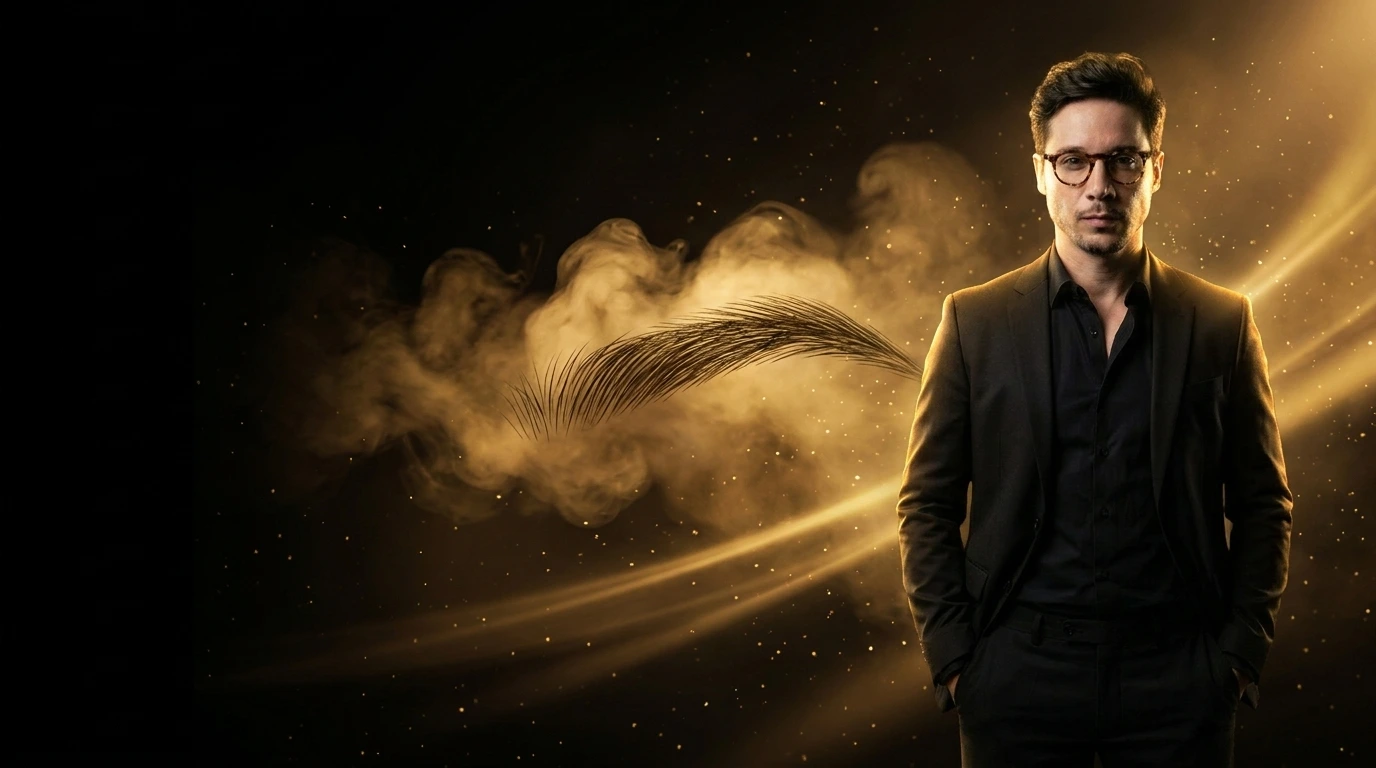
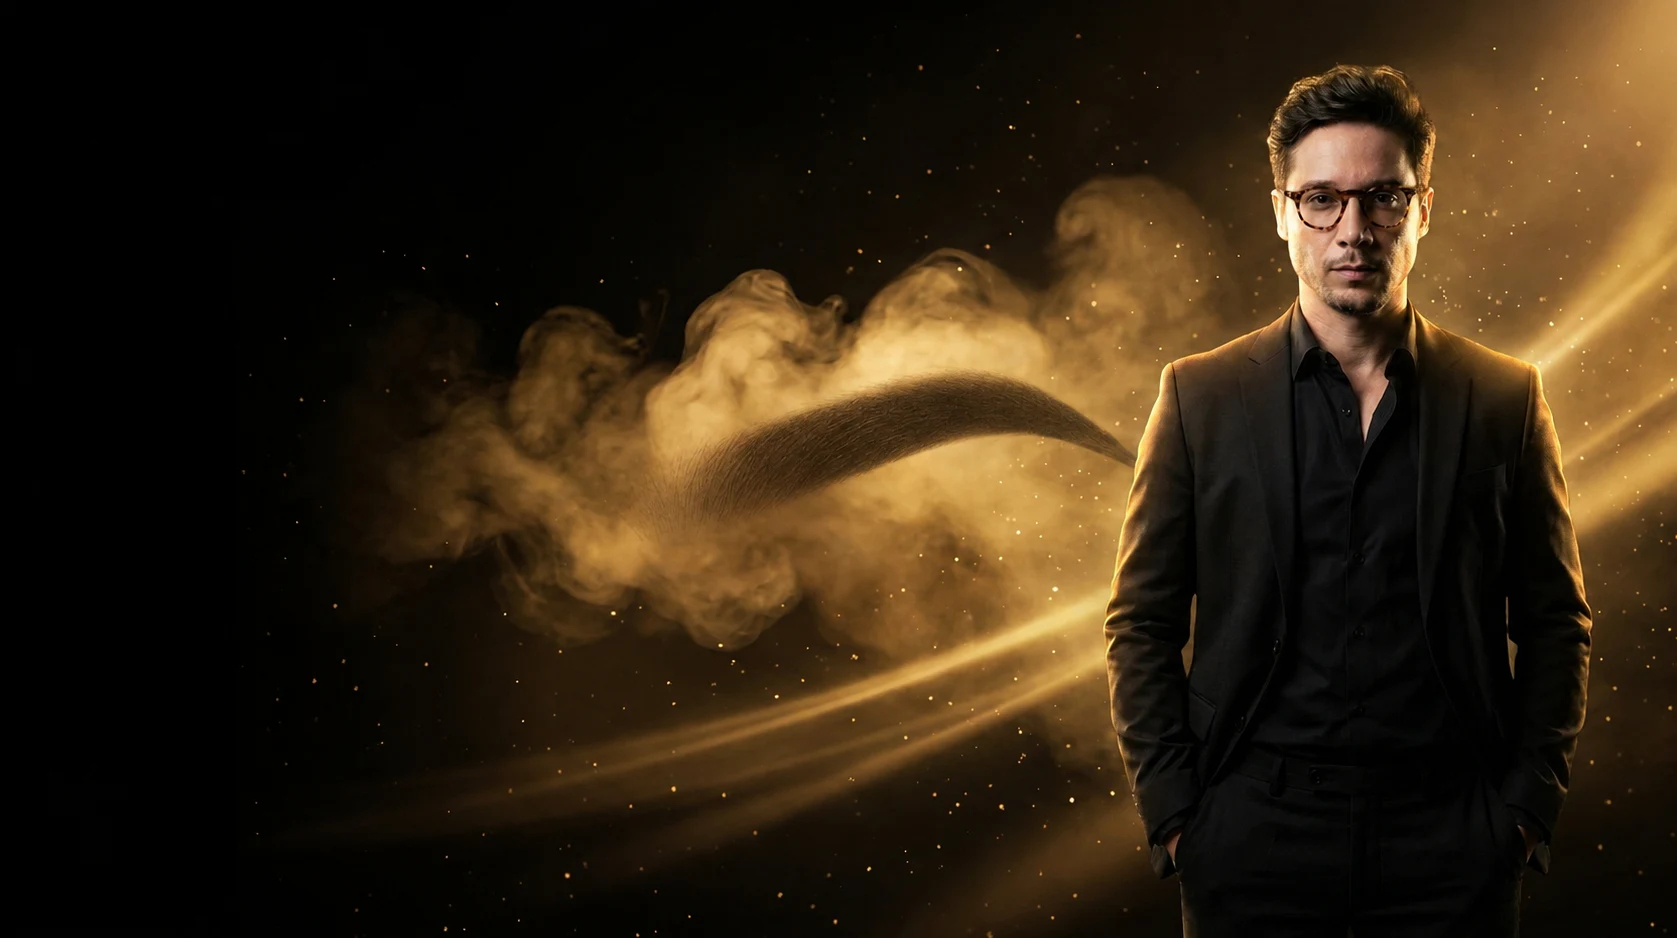
feat(shadow-pro): novo hero com arte dedicada para mobile
- hero-scene.webp trocado pela arte nova (1677x938, 78 KB)
- hero-scene-mobile.webp (1100x835, 64 KB) com recorte que preserva James e a
  sobrancelha no banner estreito; entra via media query abaixo de 600px

diff --git a/lp-html/metodo-shadow-pro.html b/lp-html/metodo-shadow-pro.html
@@ -500,6 +500,9 @@ h1,h2,h3{font-family:'Cormorant Garamond',Georgia,serif;font-weight:700;line-hei
   .ba{grid-template-columns:repeat(2,1fr);gap:10px;}
   .pillar{flex-direction:row;}
 }
+@media(max-width:600px){
+  .hero::after{background-image:url("/lp/shadow-pro/hero-scene-mobile.webp");background-position:center top;}
+}
 </style>
 </head>
 <body>

diff --git a/notas/progresso-atual.md b/notas/progresso-atual.md
@@ -2,7 +2,17 @@
 
 > **Estado vivo do portal.** Atualizar ao fim de CADA sessão. Substitui handoffs.
 >
-> **Última atualização**: 2026-07-30 — **“James Olaya” destacado no topo da seção do professor da `/metodo-shadow-pro`** + **espaçamento uniforme nos 7 pontos da ficha técnica da `/metodo-shadow-pro`** + **vídeo da ficha técnica comprimido (21 MB → 1,8 MB) + `.claude/`/`tmp/` no gitignore** + **quebra de linha no título do hero da `/metodo-shadow-pro`** + **cards e fotos da seção “Cicatrizados reais” da `/metodo-shadow-pro`** + **nova diagramação e CTA animado na oferta da `/metodo-shadow-pro`** + **carrossel da `/metodo-shadow-pro` reconstruído só com `OK_RESULTADOS`** + **certificado correto do Shadow PRO na `/metodo-shadow-pro`** + **vídeo em autoplay na ficha técnica da `/metodo-shadow-pro`** + **novas fotos nos 4 pilares da `/metodo-shadow-pro`** + **slug `/metodo-shadow-pro` + GTM-NGVQTHXT + `_fbp`/`_fbc` no CAPI** + **UX mobile da `/metodo-shadow-pro-2` (hero maior, fotos quadradas, prova subiu pro topo)** + mais prova visual na `/metodo-shadow-pro-2` (antes-e-depois + carrossel dobrado) + copy da `/basic-magic-shadow` (CTAs imperativos + fim da escassez) + GTM por página (mapa slug → container) + política de tracking por página + auditoria dos links de checkout Hotmart + Basic Magic Shadow v2 promovida ao slug oficial + auditoria do Meta Pixel + varredura de segurança**
+> **Última atualização**: 2026-07-30 — **novo hero responsivo da `/metodo-shadow-pro` com `Generated image 1`** + **“James Olaya” destacado no topo da seção do professor da `/metodo-shadow-pro`** + **espaçamento uniforme nos 7 pontos da ficha técnica da `/metodo-shadow-pro`** + **vídeo da ficha técnica comprimido (21 MB → 1,8 MB) + `.claude/`/`tmp/` no gitignore** + **quebra de linha no título do hero da `/metodo-shadow-pro`** + **cards e fotos da seção “Cicatrizados reais” da `/metodo-shadow-pro`** + **nova diagramação e CTA animado na oferta da `/metodo-shadow-pro`** + **carrossel da `/metodo-shadow-pro` reconstruído só com `OK_RESULTADOS`** + **certificado correto do Shadow PRO na `/metodo-shadow-pro`** + **vídeo em autoplay na ficha técnica da `/metodo-shadow-pro`** + **novas fotos nos 4 pilares da `/metodo-shadow-pro`** + **slug `/metodo-shadow-pro` + GTM-NGVQTHXT + `_fbp`/`_fbc` no CAPI** + **UX mobile da `/metodo-shadow-pro-2` (hero maior, fotos quadradas, prova subiu pro topo)** + mais prova visual na `/metodo-shadow-pro-2` (antes-e-depois + carrossel dobrado) + copy da `/basic-magic-shadow` (CTAs imperativos + fim da escassez) + GTM por página (mapa slug → container) + política de tracking por página + auditoria dos links de checkout Hotmart + Basic Magic Shadow v2 promovida ao slug oficial + auditoria do Meta Pixel + varredura de segurança**
+
+---
+
+## 🌟 Sessão 2026-07-30 (parte 14) — novo hero responsivo
+
+- `tmp/Generated image 1.png` substituiu o `hero-scene.webp`: versão desktop 1677×938 em WebP, 78 KB.
+- Criado recorte dedicado `hero-scene-mobile.webp` (1100×835, 64 KB) preservando James e a sobrancelha
+  no banner estreito; ativado abaixo de 600 px.
+- QA visual headless: 1440×900 e 390×844. Desktop mantém texto na área escura e James inteiro à direita;
+  mobile mantém os dois elementos visuais acima do conteúdo, sem cortes importantes.
 
 ---
 
